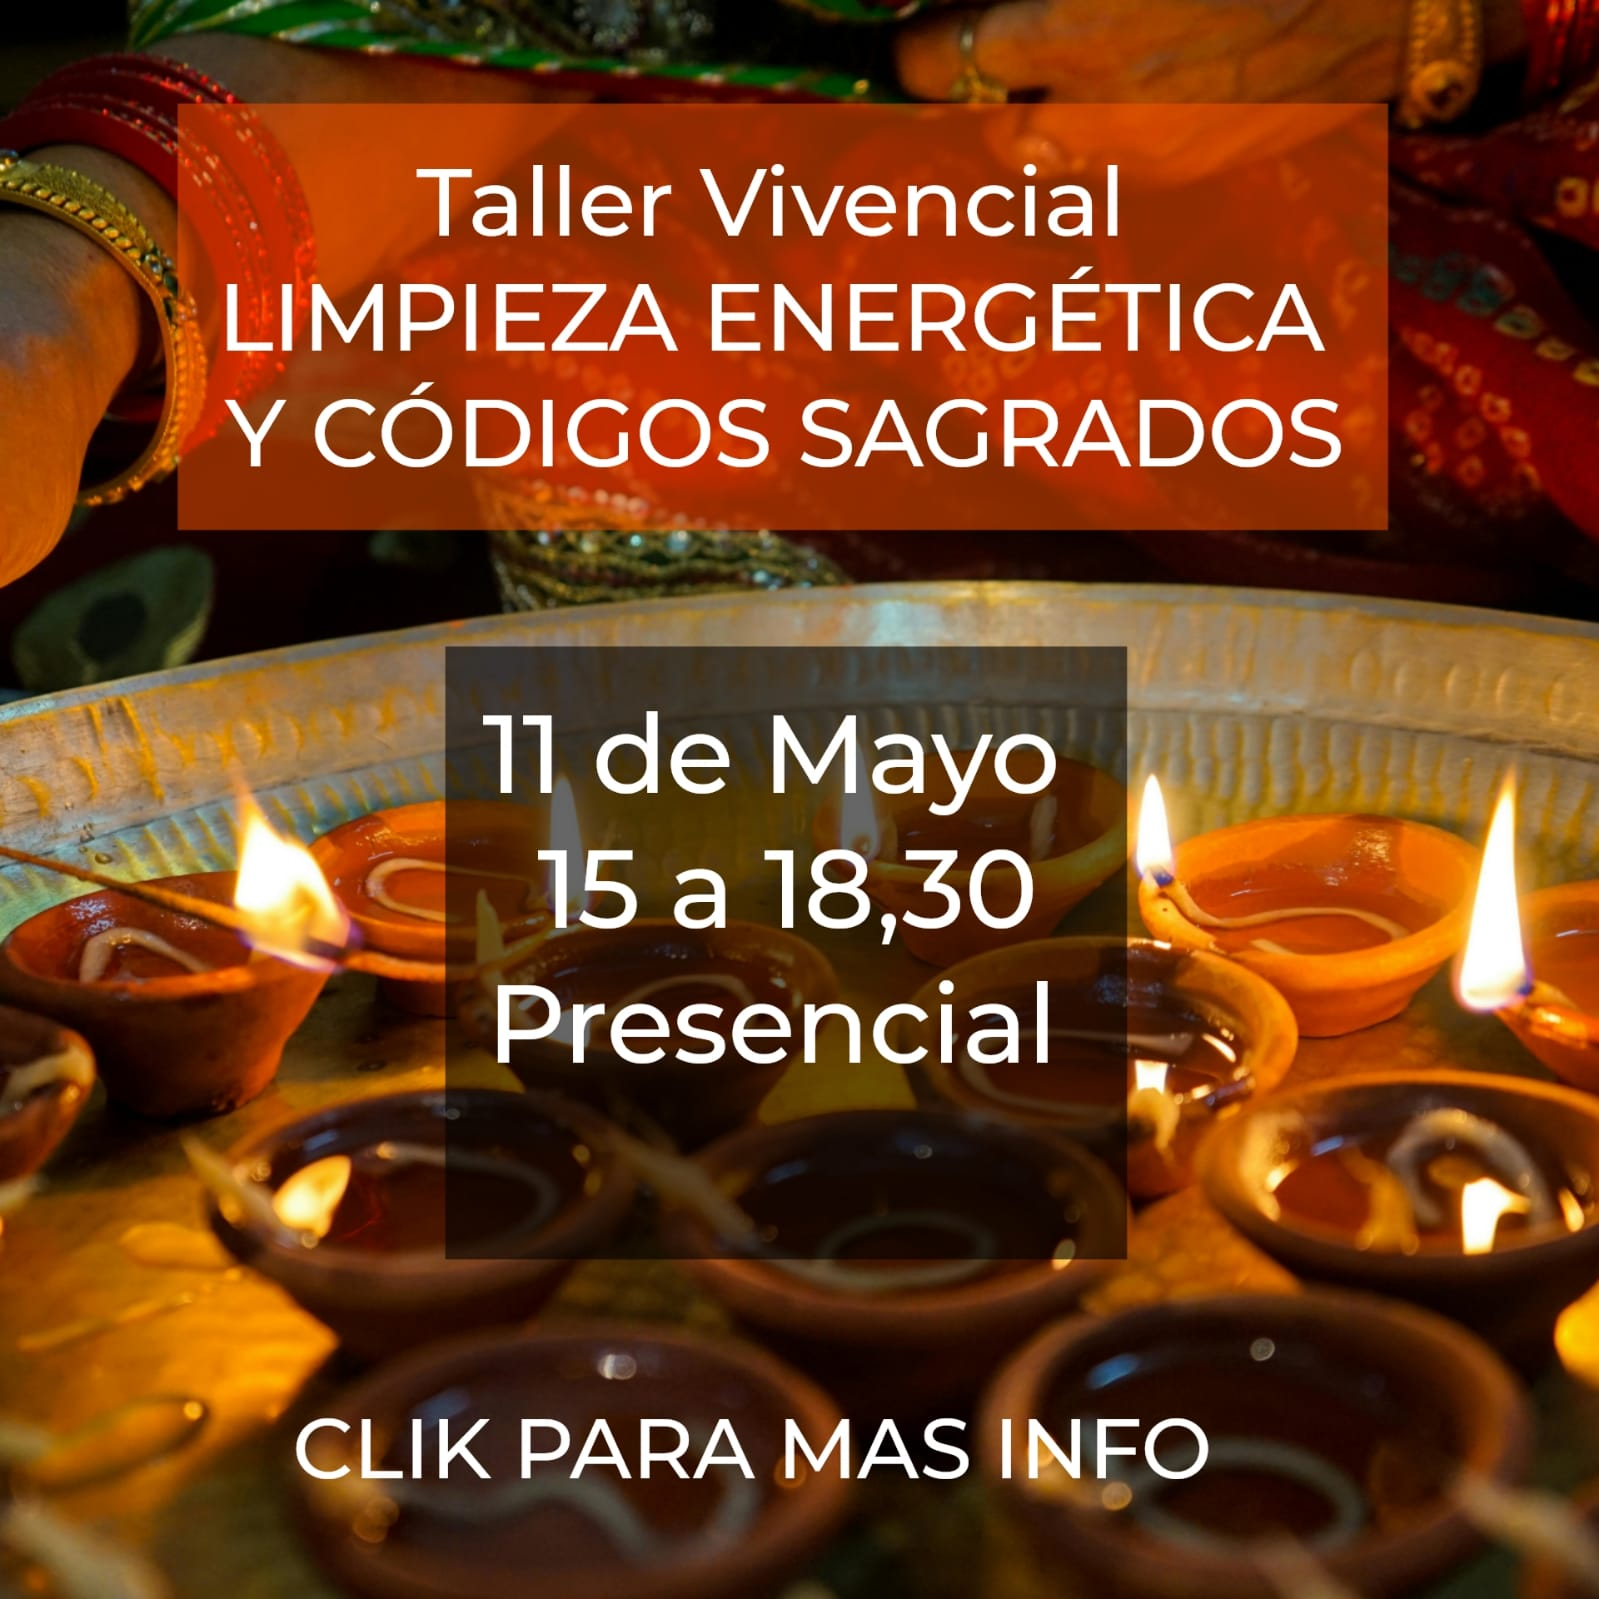
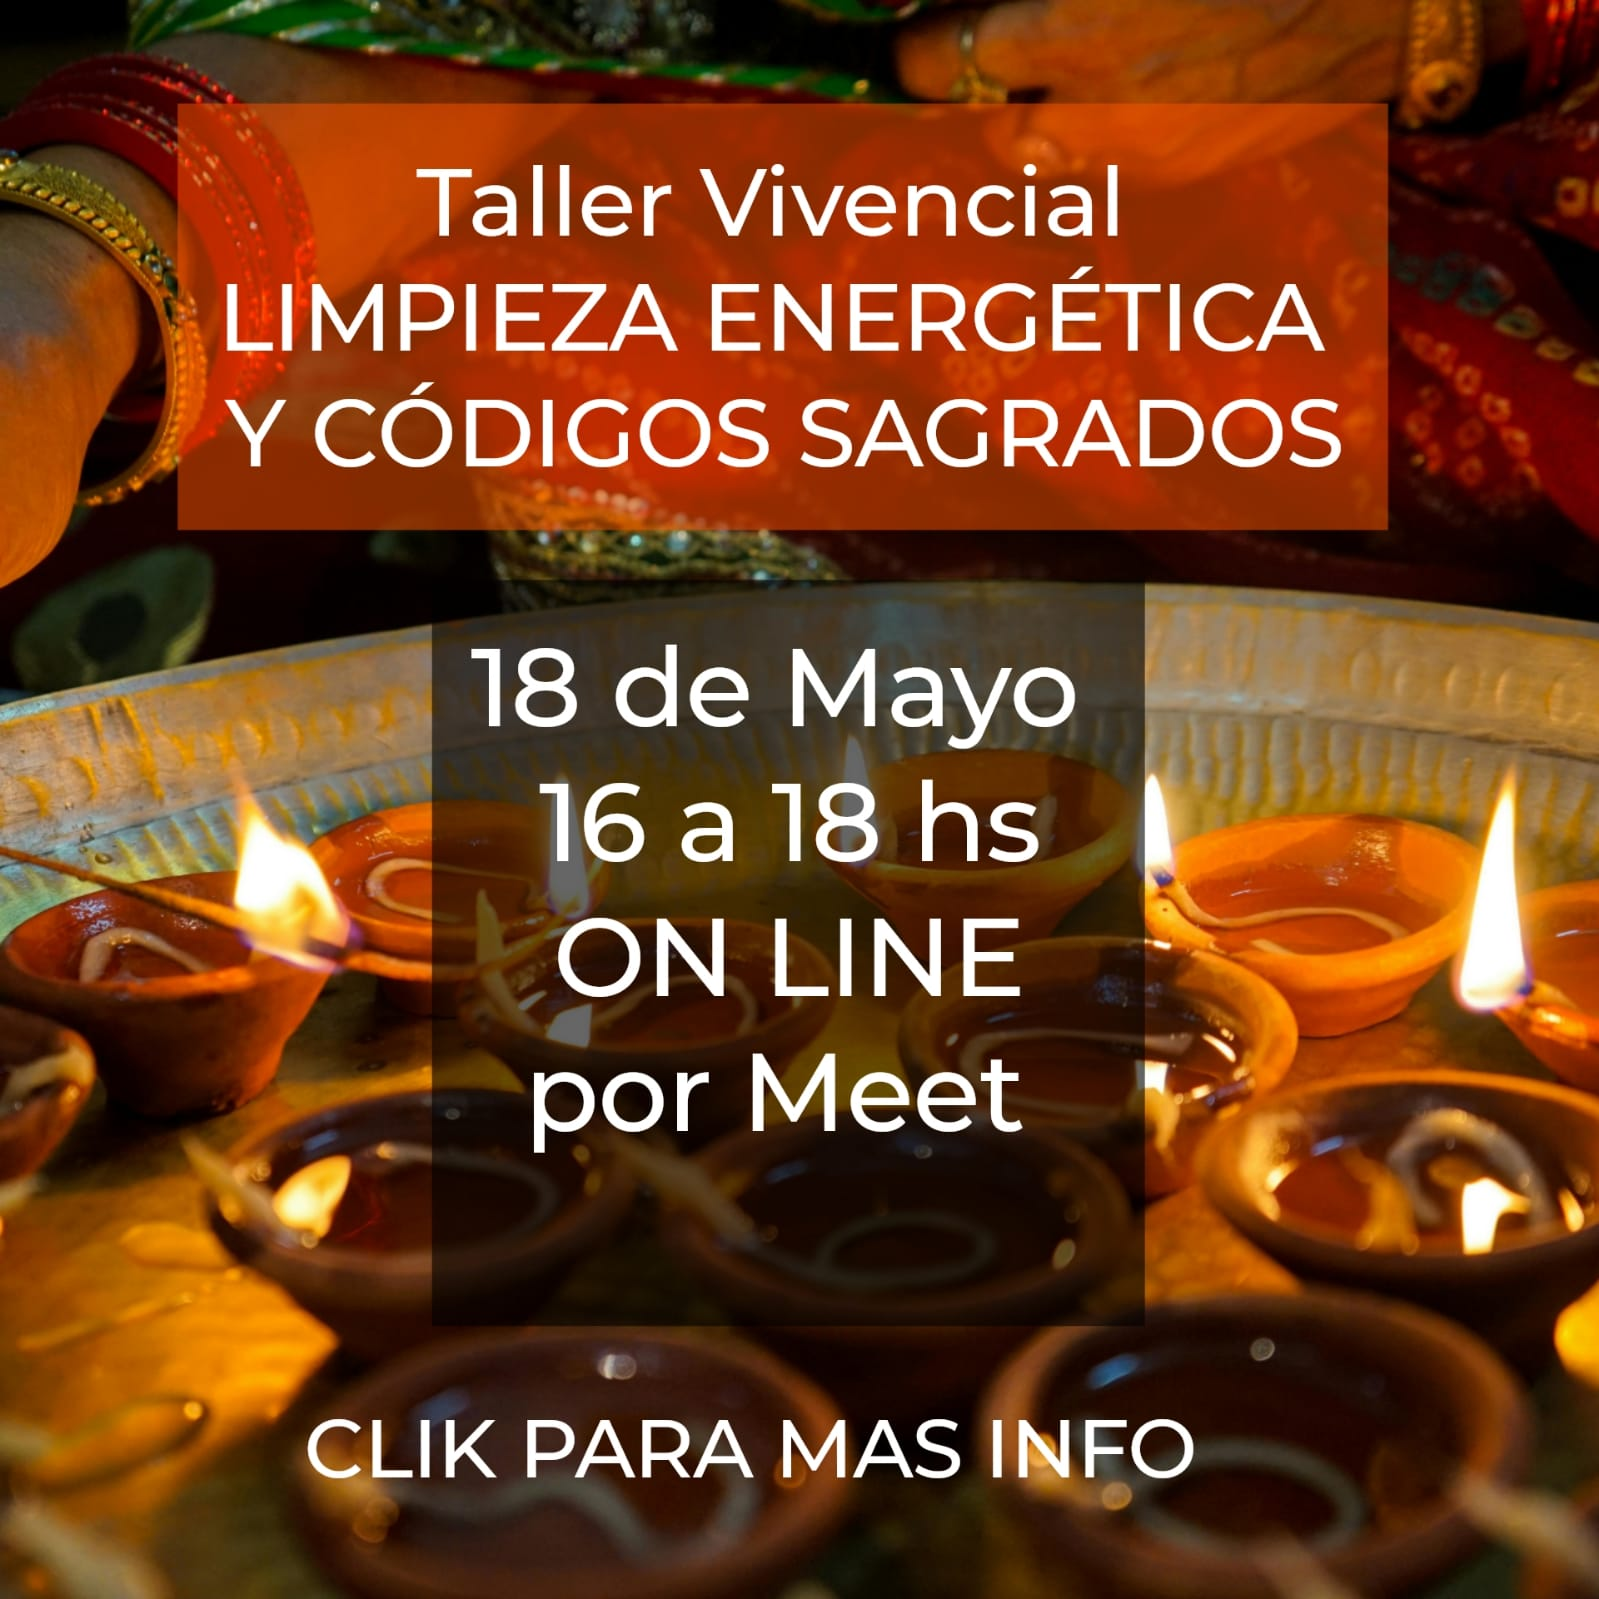
modificación taller on-line limpieza y códigos

Changed region(s): [[0.2452, 0.3371, 0.7355, 0.8274], [0.4903, 0.8887, 0.7661, 0.95], [0.1839, 0.8887, 0.4597, 0.95]]

diff --git a/Proyecto/index.html b/Proyecto/index.html
@@ -481,10 +481,10 @@
 
         <div class="nuevos_talleres" id="taller1">
             
-            <h3>Modalidad Presencial - Centro Vecinal de Villa Independencia - Las Verbenas esq. Las Violetas</h3>
-            <h4>Fecha: Sábado 11 de Mayo de 2024 - Hora: 15 hs. Duración: 3 1/2 hs. Traer Termos / Mate / Habrá break</h4>
-            <p><strong>Valor $ 8.000.-</strong></p>
-            <p>Para aquellas o aquellos que asisten por primera vez, les cuento...</p>
+            <h3>Modalidad On-line - Plataforma Google Meet</h3>
+            <h4>Fecha: Sábado 18 de Mayo de 2024 - Hora: 16  a 18 hs.</h4>
+            <p><strong>Valor $ 5.000.-</strong></p>
+            <p>Para aquellas o aquellos que realicen el taller virtual por primera vez, les cuento...</p>
             <p>Imaginate en un espacio acogedor donde vas a sentirte cómod@ siendo tú mism@, rodeado de personas que comparten tus mismas inquietudes y deseos de crecimiento personal.</p>
             <p>Desde la transmisión de prácticas sencillas y fáciles de aplicar, te llevarás herramientas muy valiosas para proteger tu propia energía, la de tus seres queridos y la de los lugares que habitas y en los que te desenvuelves</p>
             <p>Se combinan conocimientos teóricos y prácticos sobre limpieza energética y códigos sagrados. Estas son poderosas herramientas para modificar desde las energías la manifestación en el mundo real</p>
@@ -506,7 +506,7 @@
 
 <section id="novedades_mes_2" class="oculto">
     <div class="container">
-        <h2>Taller Vivencial de Autoestima</h2>
+        <h2>Taller Vivencial de Limpieza Energética y Códigos Sagrados</h2>
         <div class="image-gallery">
             <div class="image-novedades-mes">
                 <img src="Imagenes/Limpieza 4.jpeg" alt="Descripción de la imagen 2">
@@ -514,10 +514,10 @@
         </div>
         <div class="nuevos_talleres" id="taller1">
             
-            <h3>Modalidad Presencial - Centro Vecinal de Villa Independencia - Las Verbenas esq. Las Violetas</h3>
-            <h4>Fecha: Sábado 11 de Mayo de 2024 - Hora: 15 hs. Duración: 3 1/2 hs. Traer Termos / Mate / Habrá break</h4>
-            <p><strong>Valor $ 8.000.-</strong></p>
-            <p>Para aquellas o aquellos que asisten por primera vez, les cuento...</p>
+            <h3>Modalidad On-line - Plataforma Google Meet</h3>
+            <h4>Fecha: Sábado 18 de Mayo de 2024 - Hora: 16  a 18 hs.</h4>
+            <p><strong>Valor $ 5.000.-</strong></p>
+            <p>Para aquellas o aquellos que realicen el taller virtual por primera vez, les cuento...</p>
             <p>Imaginate en un espacio acogedor donde vas a sentirte cómod@ siendo tú mism@, rodeado de personas que comparten tus mismas inquietudes y deseos de crecimiento personal.</p>
             <p>Desde la transmisión de prácticas sencillas y fáciles de aplicar, te llevarás herramientas muy valiosas para proteger tu propia energía, la de tus seres queridos y la de los lugares que habitas y en los que te desenvuelves</p>
             <p>Se combinan conocimientos teóricos y prácticos sobre limpieza energética y códigos sagrados. Estas son poderosas herramientas para modificar desde las energías la manifestación en el mundo real</p>
